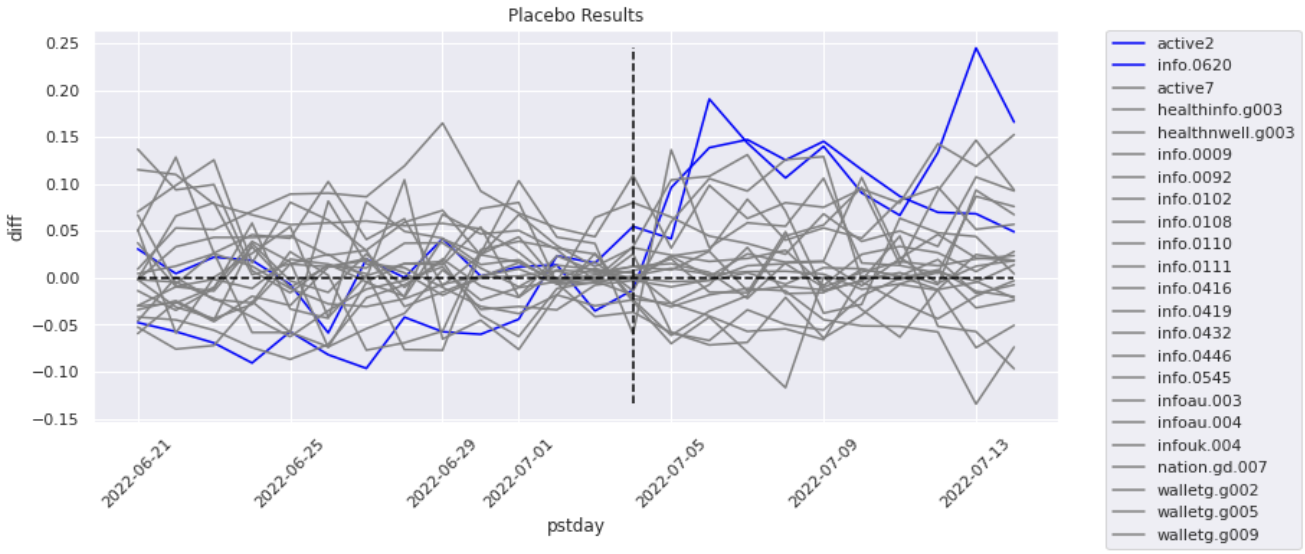
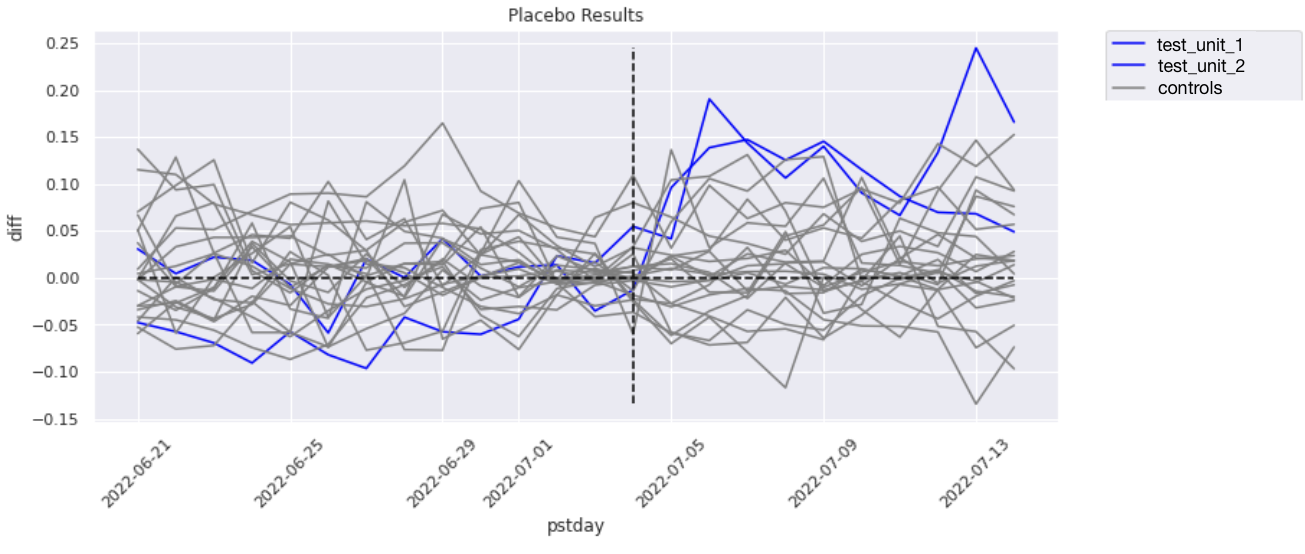
update readme images and test units

Changed region(s): [[0.8582, 0.0614, 1.0, 0.9819], [0.9808, 0.9819, 1.0, 1.0]]

diff --git a/README.rst b/README.rst
@@ -81,7 +81,7 @@ separate problem using sklearn's MultiTaskLasso multiple regression model. The f
 minimize the expression
 
 $$\\frac{1}{2J} ||Y - XV||^2_{Fro} + \\alpha ||V||_{21}$$
-$$||V||_21 = \sum_i \sqrt{\sum_j v_{ij}^2}$$
+$$||V||_{21} = \\sum_i \\sqrt{\\sum_j v_{ij}^2}$$
 
 Where $X$ is a $J \\times m$ matrix of features with $J$ control units and $m$ features, the same as
 $X_0$ from earlier. $Y$ is time series data for the control units from either the pre or post
@@ -163,7 +163,7 @@ Treatment Effects
 
 The estimated treatment effects due to the intervention are calculated as the difference between the
 test unit outcomes and its corresponding synthetic control over the post intervention period. In the
-plot below, this is the difference between the active2 plot and the synthetic_active2 plot after the
+plot below, this is the difference between the test_unit_1 plot and the synthetic_test_unit_1 plot after the
 vertical dotted line marking the event date.
 
 .. image:: images/estimate_effects.png
@@ -205,10 +205,10 @@ and control units.
 .. image:: images/rmspe_ratios.png
    :width: 650
 
-We can see the RMSPE ratio for one of the test units (active2) is substantially larger than the
+We can see the RMSPE ratio for one of the test units (test_unit_1) is substantially larger than the
 control units and the other test unit. The probability of an RMSPE ratio this large is 1 / 20 or
 0.05. That is, if one were to assign the intervention at random in the data, the probability of
-obtaining an RMSPE ratio as large as the test unit active2 is 0.05, giving us a p-value of 0.05. The
+obtaining an RMSPE ratio as large as the test unit test_unit_1 is 0.05, giving us a p-value of 0.05. The
 only unclear part in this process is describing this ratio as "substantially" larger than the
 control units. We formally describe a test unit RMSPE ratio as substantially larger than the control
 unit RMSPE ratios if the following two conditions are true.
